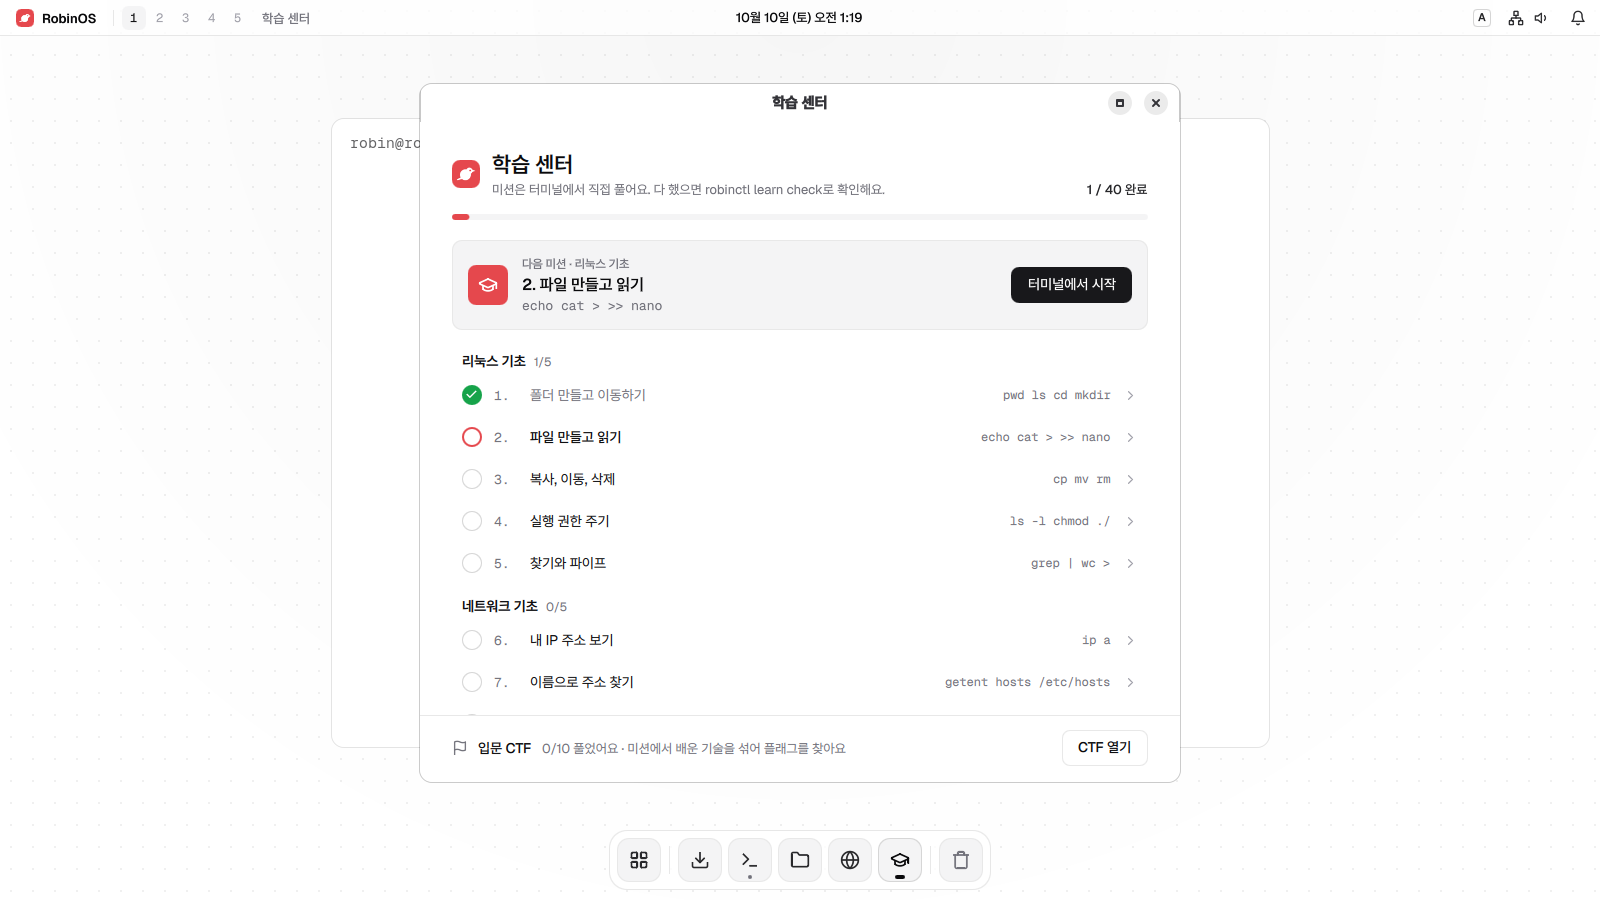
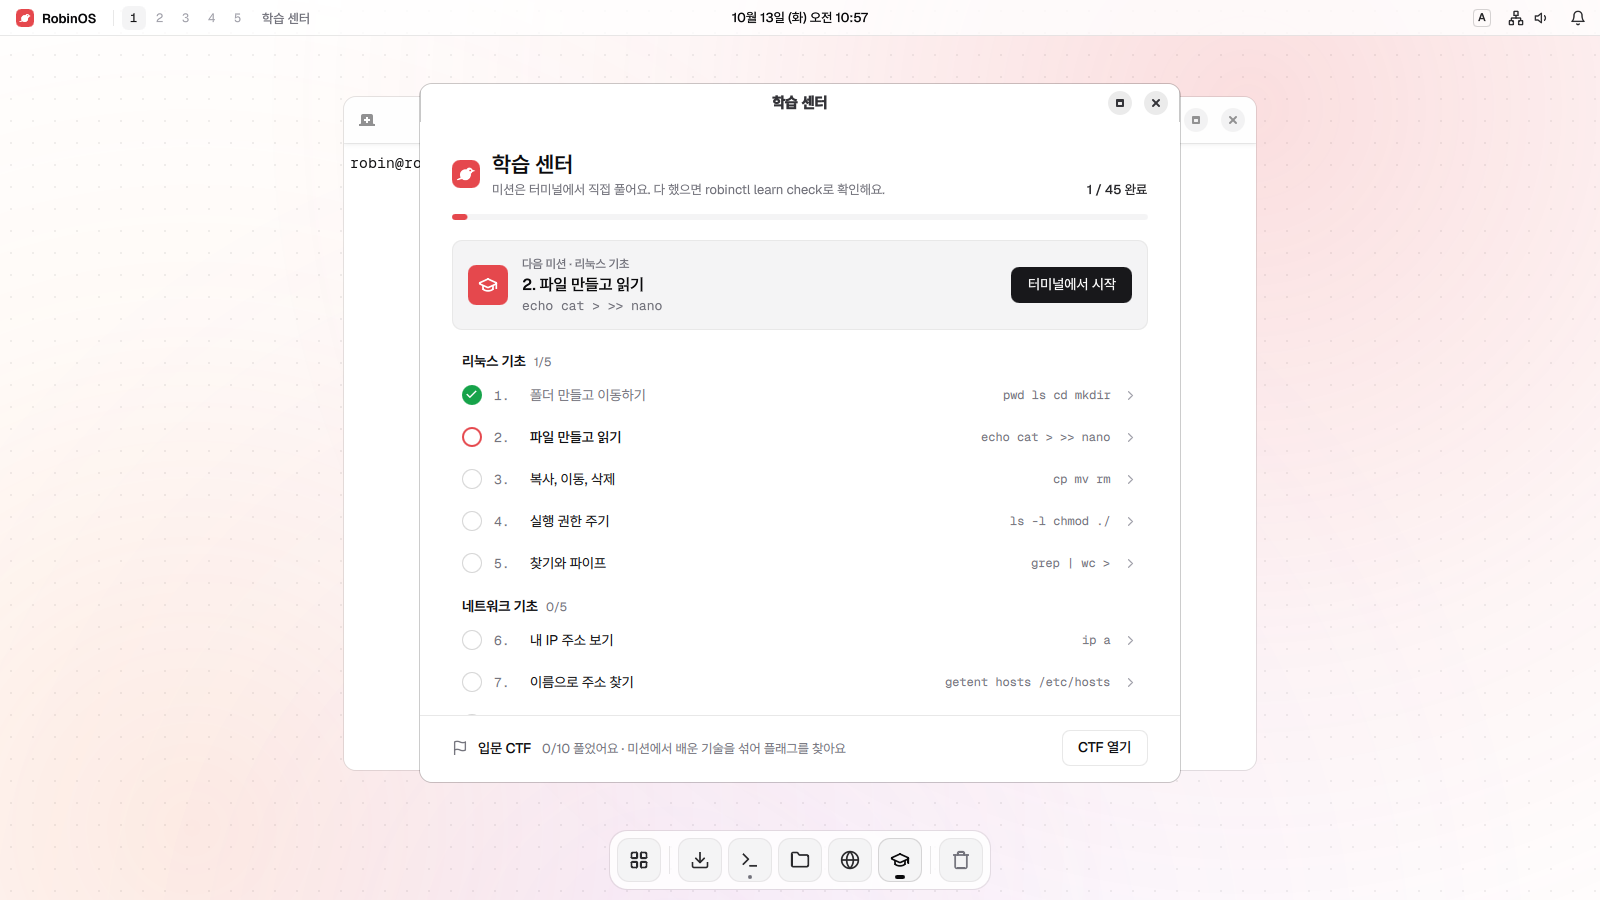
웹사이트 공개: README에 주소, 새 학습 센터 사진, 작업 목록(T-170 공개, T-155 흔들림 기록)

diff --git a/README.md b/README.md
@@ -4,7 +4,7 @@
 
 **RobinOS로 시작하는 첫 리눅스**
 
-RobinOS는 처음 쓰는 리눅스예요. 리눅스를 처음 써 보는 사람을 위해 만들었어요.
+RobinOS는 처음 쓰는 리눅스예요. 리눅스를 처음 써 보는 사람을 위해 만들었어요. 소개 페이지: https://yoon-robin.github.io/RobinOS/
 
 윈도우에서 쓰던 단축키와 이름이 그대로 통해서 첫날부터 쓸 수 있어요. 터미널에 `ipconfig`를 치면 리눅스에서는 `ip a`라고 알려 주고, 업데이트하다 망가지면 부팅 메뉴에서 되돌려요. 더 배우고 싶으면 학습 센터의 미션 45개가 리눅스 기초부터 차근차근 이어 줘요.
 
